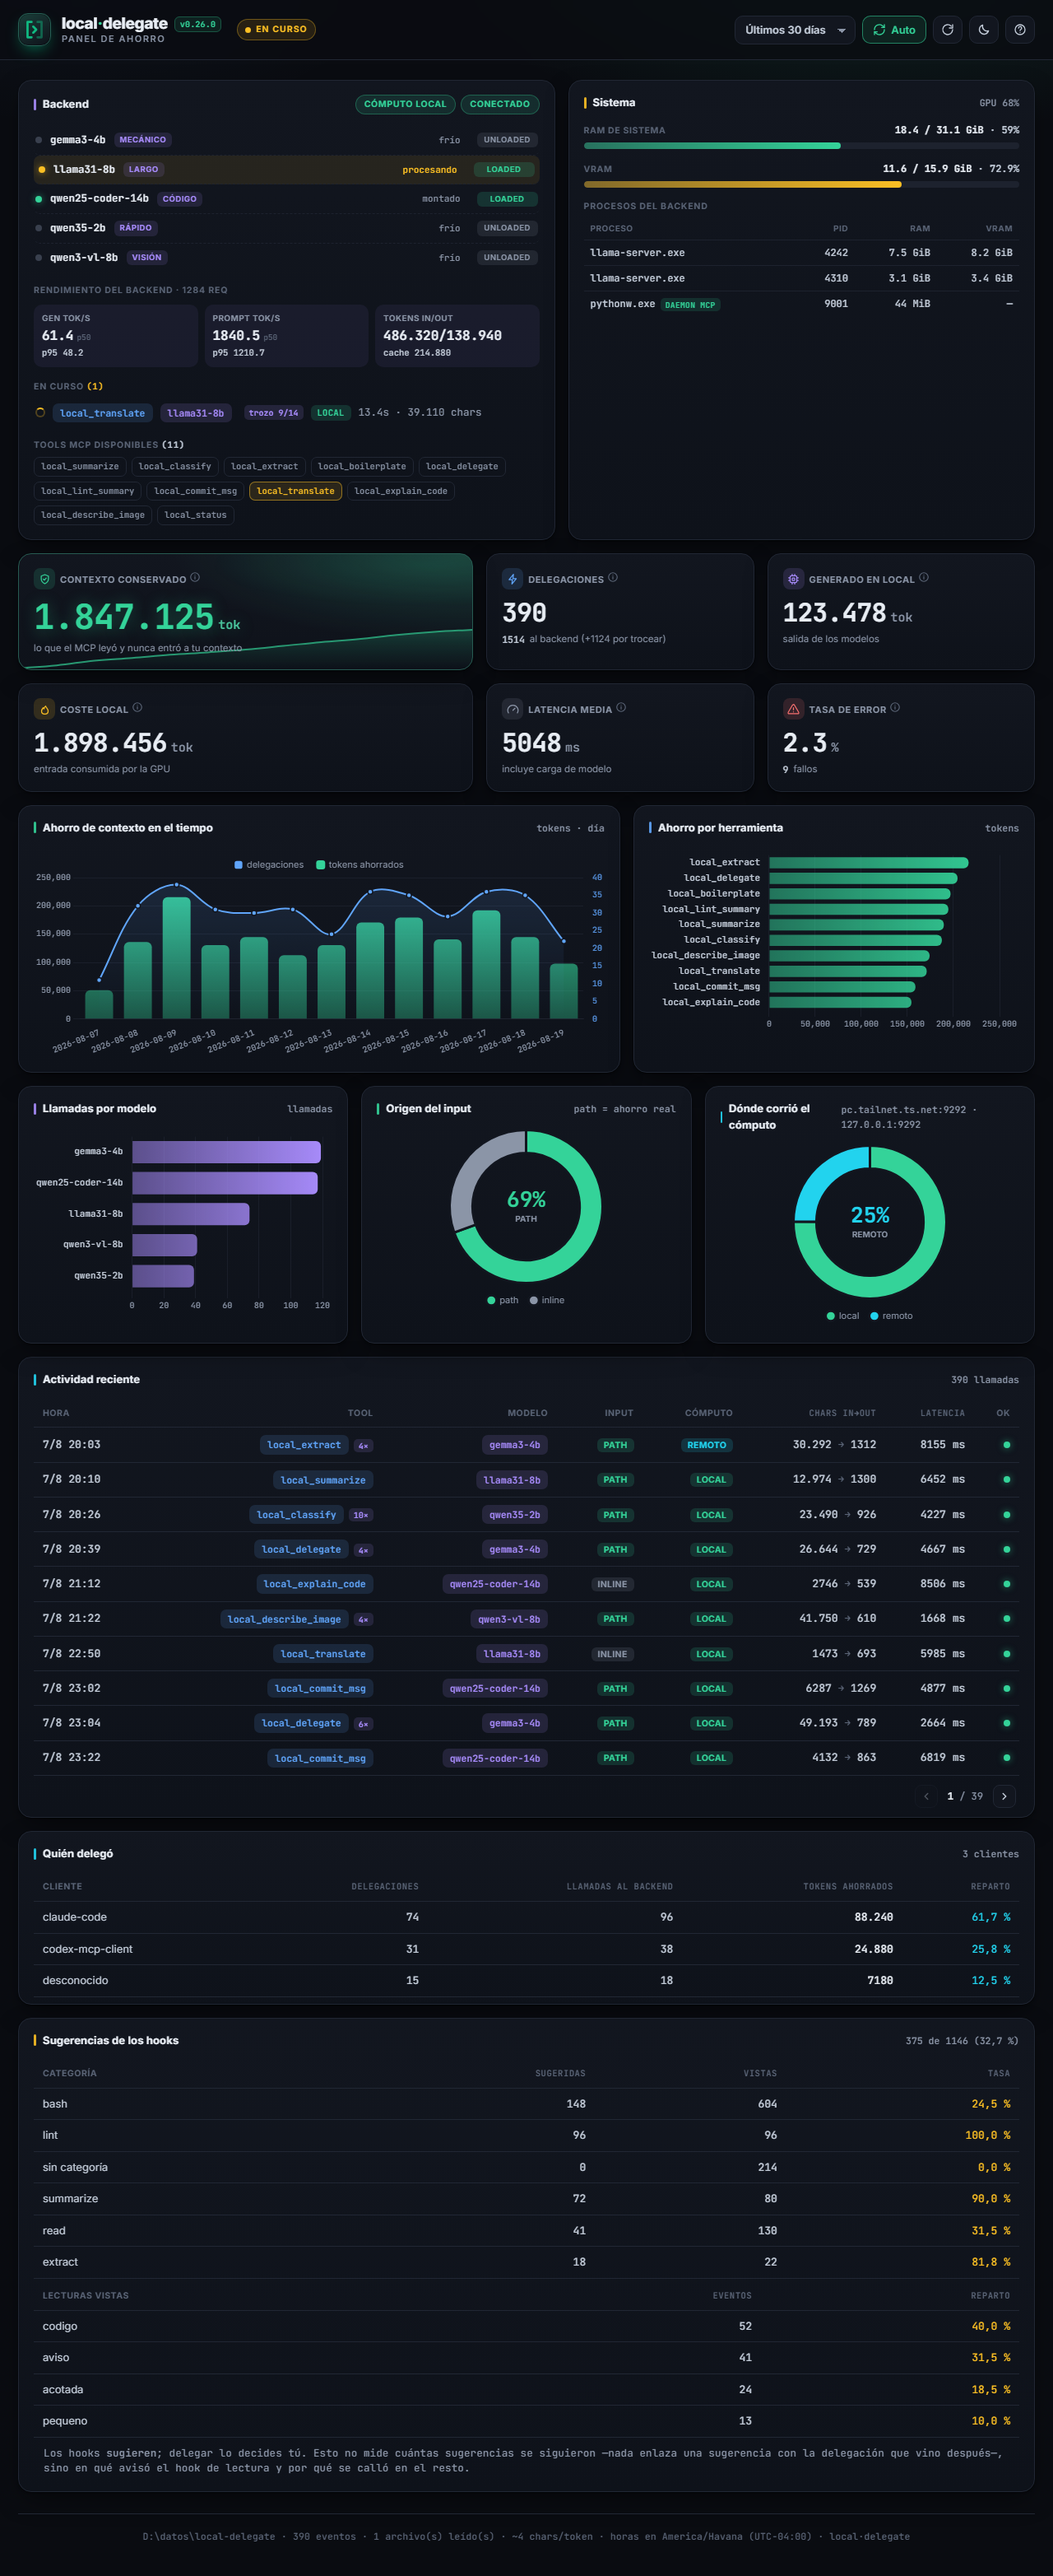
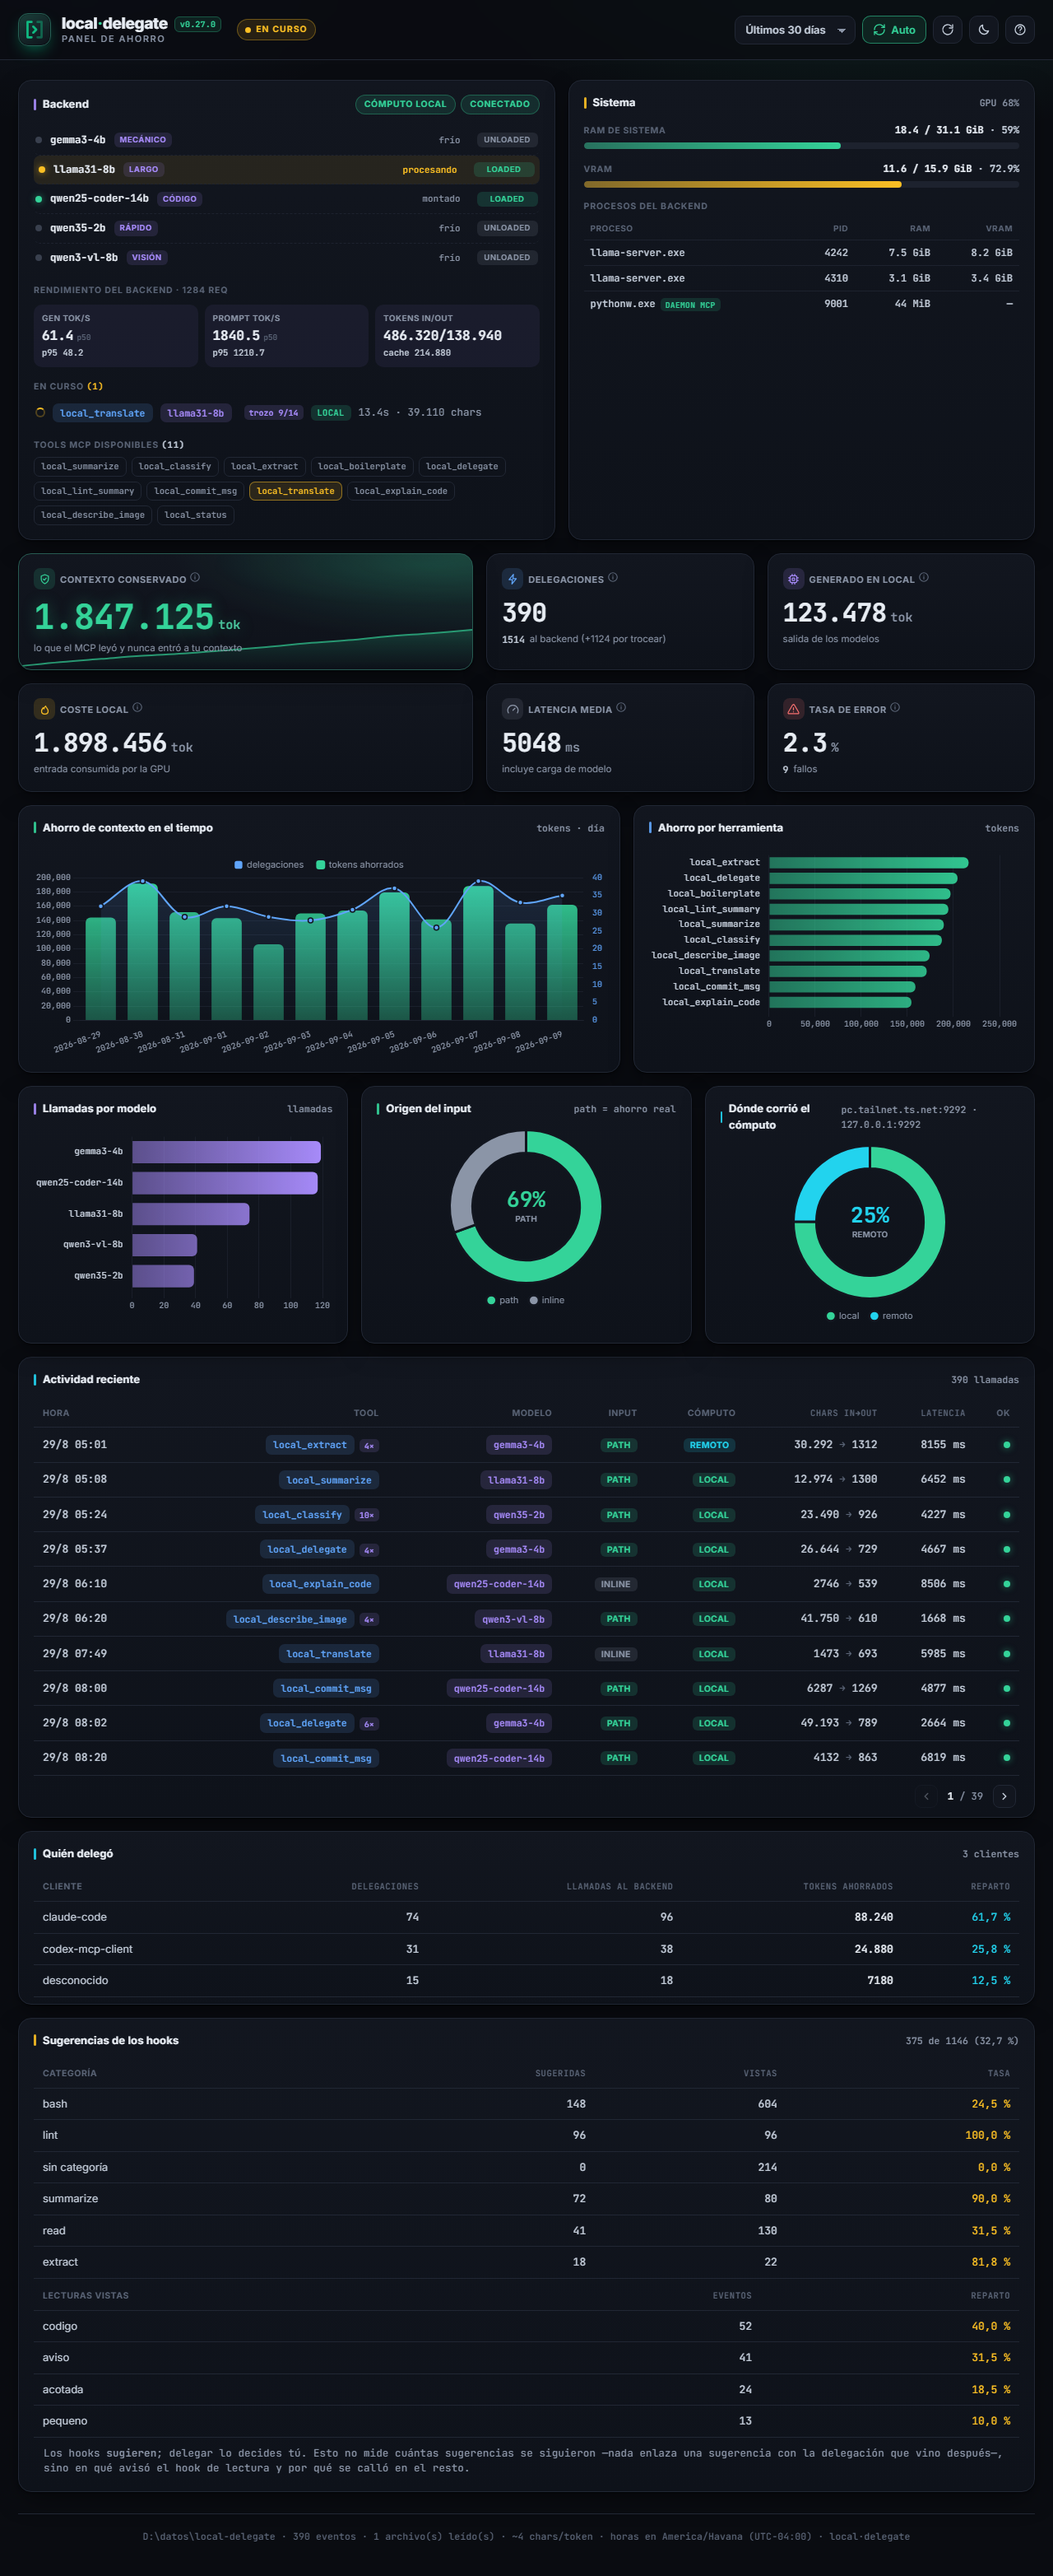
chore(release): 0.27.0 (#164)
Version en los cuatro sitios, CHANGELOG fechado y captura del dashboard
regenerada contra el arbol (la app de metricas en el 9494, porque el daemon del
9393 sirve la version instalada y ademas exige token).

La minor la justifica el breaking de `local_boilerplate`: `target` obligatorio,
el codigo va al archivo y al contexto solo vuelve un recibo.

diff --git a/CHANGELOG.md b/CHANGELOG.md
@@ -4,7 +4,7 @@ Todos los cambios notables de este proyecto se documentan aquí.
 El formato sigue [Keep a Changelog](https://keepachangelog.com/es-ES/1.1.0/)
 y el proyecto usa [Versionado Semántico](https://semver.org/lang/es/).
 
-## [Unreleased]
+## [0.27.0] - 2026-09-08
 
 ### Changed
 - **BREAKING — `local_boilerplate` escribe el código en disco y ya no lo devuelve.** La firma pasa
@@ -1708,7 +1708,8 @@ y el proyecto usa [Versionado Semántico](https://semver.org/lang/es/).
 - Empaquetado para PyPI (`local-delegate-mcp`) ejecutable con `uvx`; `server.json` para el
   registro oficial de MCP.
 
-[Unreleased]: https://github.com/ZahiriNatZuke/local-delegate/compare/v0.26.0...HEAD
+[Unreleased]: https://github.com/ZahiriNatZuke/local-delegate/compare/v0.27.0...HEAD
+[0.27.0]: https://github.com/ZahiriNatZuke/local-delegate/compare/v0.26.0...v0.27.0
 [0.26.0]: https://github.com/ZahiriNatZuke/local-delegate/compare/v0.25.0...v0.26.0
 [0.25.0]: https://github.com/ZahiriNatZuke/local-delegate/compare/v0.24.0...v0.25.0
 [0.24.0]: https://github.com/ZahiriNatZuke/local-delegate/compare/v0.23.0...v0.24.0
